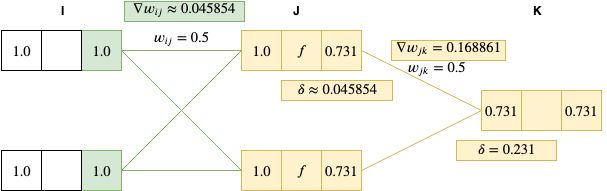
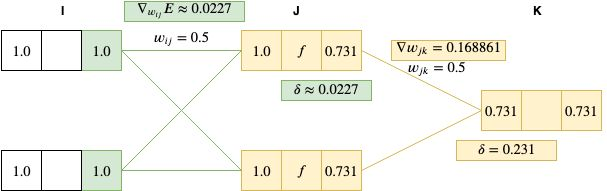
corrected equations and images

Changed region(s): [[0.4448, 0.4188, 0.6524, 0.5497], [0.2076, 0.0, 0.3855, 0.1047]]

diff --git a/README.tex.md b/README.tex.md
@@ -125,7 +125,7 @@ Here the calculations are *slightly* more complex. Let's analyze the delta term 
 
 $$ \frac{\partial E_t}{\partial x_{jt}} = \frac{\partial E_t}{\partial y_{jt}} \frac{d y_{jt}}{dx_{jt}} $$
 
-$$ \frac{\partial E_t}{\partial y_{jt}} = \sum^K_{k = 1} \frac{\partial E_t}{\partial x_{kt}} \frac{\partial x_{kt}}{\partial y_{jt}} = \sum^K_{k = 1} \delta_{kt} w_{jk} \quad and \quad \frac{dy_{jt}}{dx_{jt}} = f'(x_{jt}) = f(x_{jt})(1 - f(x_{jt})) = y_{jt}(1 - y{jt}) $$
+$$ \frac{\partial E_t}{\partial y_{jt}} = \sum^K_{k = 1} \frac{\partial E_t}{\partial x_{kt}} \frac{\partial x_{kt}}{\partial y_{jt}} = \sum^K_{k = 1} \delta_{kt} w_{jk} \quad and \quad \frac{dy_{jt}}{dx_{jt}} = f'(x_{jt}) = f(x_{jt})(1 - f(x_{jt})) = y_{jt}(1 - y_{jt}) $$
 
 Remember that our activation function $f$ is the sigmoid function and that its derivative is $f(x)(1 - f(x))$
 
@@ -140,7 +140,7 @@ Repeat the steps below until the error is about 0
 - for each association, propagate the network forward and get the outputs
   - calculate the $\delta$ term for each output layer node ($\delta_k = y_{kt} - y\prime_{kt}$)
   - accumulate the gradient for each output weight ($\nabla_{w_{jkt}}E_t = \delta_{kt} y_{jt}$)
-  - calculate the $\delta$ term for each hidden layer node ($\delta_j = y_{jt}(1 - y_{jt})\sum^K_{k = 1}\delta_{kt} w_{jkt}$)
+  - calculate the $\delta$ term for each hidden layer node ($\delta_j = y_{jt}(1 - y_{jt})\sum^K_{k = 1}\delta_{kt} w_{jk}$)
   - accumulate the gradient for each hidden layer weight ($\nabla_{w_{ijt}}E_t = \delta_{jt} y_{it}$)
 - update all weights and reset accumulated gradients ($w = w - \epsilon \nabla E$)
 
@@ -152,13 +152,13 @@ In this example, we'll use actual numbers to follow each step of the network. We
 
 We start by setting all of the nodes of the input layer with the input values; $x_1 = 1.0, x_2 = 1.0$. 
 
-Since the input layer nodes have no activation function, then $y_i = x_i = 1.0$. 
+Since the input layer nodes have the identity activation function, then $y_i = x_i = 1.0$. 
 
 ![backpropagation-visual](readme-images/backprop-visual-1.jpg)
 
 We then propagate the network forward by setting the $J$ layer node inputs ($x_j$) with the sum of all of the previous layer node outputs times their corresponding weights:
 
-$$ x_j = \sum^I_{i = 1} x_i w_{ij} = 1.0 * 0.5 + 1.0 * 0.5 = 1.0 $$
+$$ x_j = \sum^I_{i = 1} y_i w_{ij} = 1.0 * 0.5 + 1.0 * 0.5 = 1.0 $$
 
 ![backpropagation-visual](readme-images/backprop-visual-2.jpg)
 
@@ -170,7 +170,7 @@ We then activate the $J$ layer nodes by passing it's inputs to the sigmoid funct
 
 And we propagate those results to the final layer $x_k = 0.731 * 0.5 + 0.731 * 0.5 = 0.731$
 
-Since we didn't assign an activation function to our output layer node, then $y_k = x_k = 0.731$
+Since the activation function of our output nodes is the identity, then $y_k = x_k = 0.731$
 
 ![backpropagation-visual](readme-images/backprop-visual-5.jpg)
 
@@ -180,33 +180,33 @@ On the way back, we first calculate the $\delta$ term for the output node, $\del
 
 ![backpropagation-visual](readme-images/backprop-visual-6.jpg)
 
-And using the $\delta$ term we calculate the gradient for each weight between $J$ and $K$ layer nodes: $\nabla w_{jk} = \delta_k y_j = 0.231 * 0.731 = 0.168861$
+And using the $\delta$ term we calculate the gradient for each weight between $J$ and $K$ layer nodes: $\nabla_{w_{jk}}E = \delta_k y_j = 0.231 * 0.731 = 0.168861$
 
 ![backpropagation-visual](readme-images/backprop-visual-7.jpg)
 
-We then do the same thing for each hidden layer (just the one in our case): $\delta_j = y_j(1 - y_j) \sum^K_{k = 1} \delta_k w_{jk} = 0.731 * (1 - 0.731) * (0.731 * 0.168861 + 0.731 * 0.168861) \approx 0.048545$
+We then do the same thing for each hidden layer (just the one in our case): $\delta_j = y_j(1 - y_j) \sum^K_{k = 1} \delta_k w_{jk} = 0.731 * (1 - 0.731) * (0.5 * 0.231) \approx 0.0227$
 
 ![backpropagation-visual](readme-images/backprop-visual-8.jpg)
 
-And calculate the gradient for each weight between $I$ and $J$ layer nodes: $\nabla w_{ij} = \delta_j y_i = 0.045854 * 1.0 = 0.045854$
+And calculate the gradient for each weight between $I$ and $J$ layer nodes: $\nabla_{w_{ij}}E = \delta_j y_i = 0.0227 * 1.0 = 0.0227$
 
 ![backpropagation-visual](readme-images/backprop-visual-9.jpg)
 
 The last step is to update all of our weights using the calculate gradients. Note that if we had more than one association, then we would first accumulate the gradients for each association and then update the weights. 
 
-$w_{ij} = w_{ij} - \epsilon \nabla w_{ij}E = 0.5 - 0.01 * 0.045854 = 0.49954146$
+$w_{ij} = w_{ij} - \epsilon \nabla_{w_{ij}}E = 0.5 - 0.01 * 0.0227 = 0.499773$
 
-$w_{jk} = w_{jk} - \epsilon \nabla w_{jk}E = 0.5 - 0.01 * 0.168861 = 0.49831139$
+$w_{jk} = w_{jk} - \epsilon \nabla_{w_{jk}}E = 0.5 - 0.01 * 0.168861 = 0.49831139$
 
 ![backpropagation-visual](readme-images/backprop-visual-10.jpg)
 
 As you can see the weights changed by a very little amount, but if we were run a forward pass again using the updated weights, we should normally get a smaller error than before. Let's check...
 
-We had $y_1 = 0.731$ on our first iteration and we get $y \approx 0.728292$ after the weight changes. 
+We had $y_1 = 0.731$ on our first iteration and we get $y \approx 0.7285$ after the weight changes. 
 
-We had $y_1 - y\prime_1 = 0.231$ and we get $y_2 - y\prime_2 = 0.228292$ after the weight changes. 
+We had $y_1 - y\prime_1 = 0.231$ and we get $y_2 - y\prime_2 = 0.2285$ after the weight changes. 
 
-We successfully reduced the error! Although these numbers are very small, they are much more representative of a real scenario. Running the algorithm many times over would normally reduce the error down to almost 0 and we'd have completed training our network. 
+We successfully reduced the error! Although these numbers are very small, they are much more representative of a real scenario. Running the algorithm many times over would normally reduce the error down to almost 0 and we'd have completed training the network. 
 
 ## Code example
 
